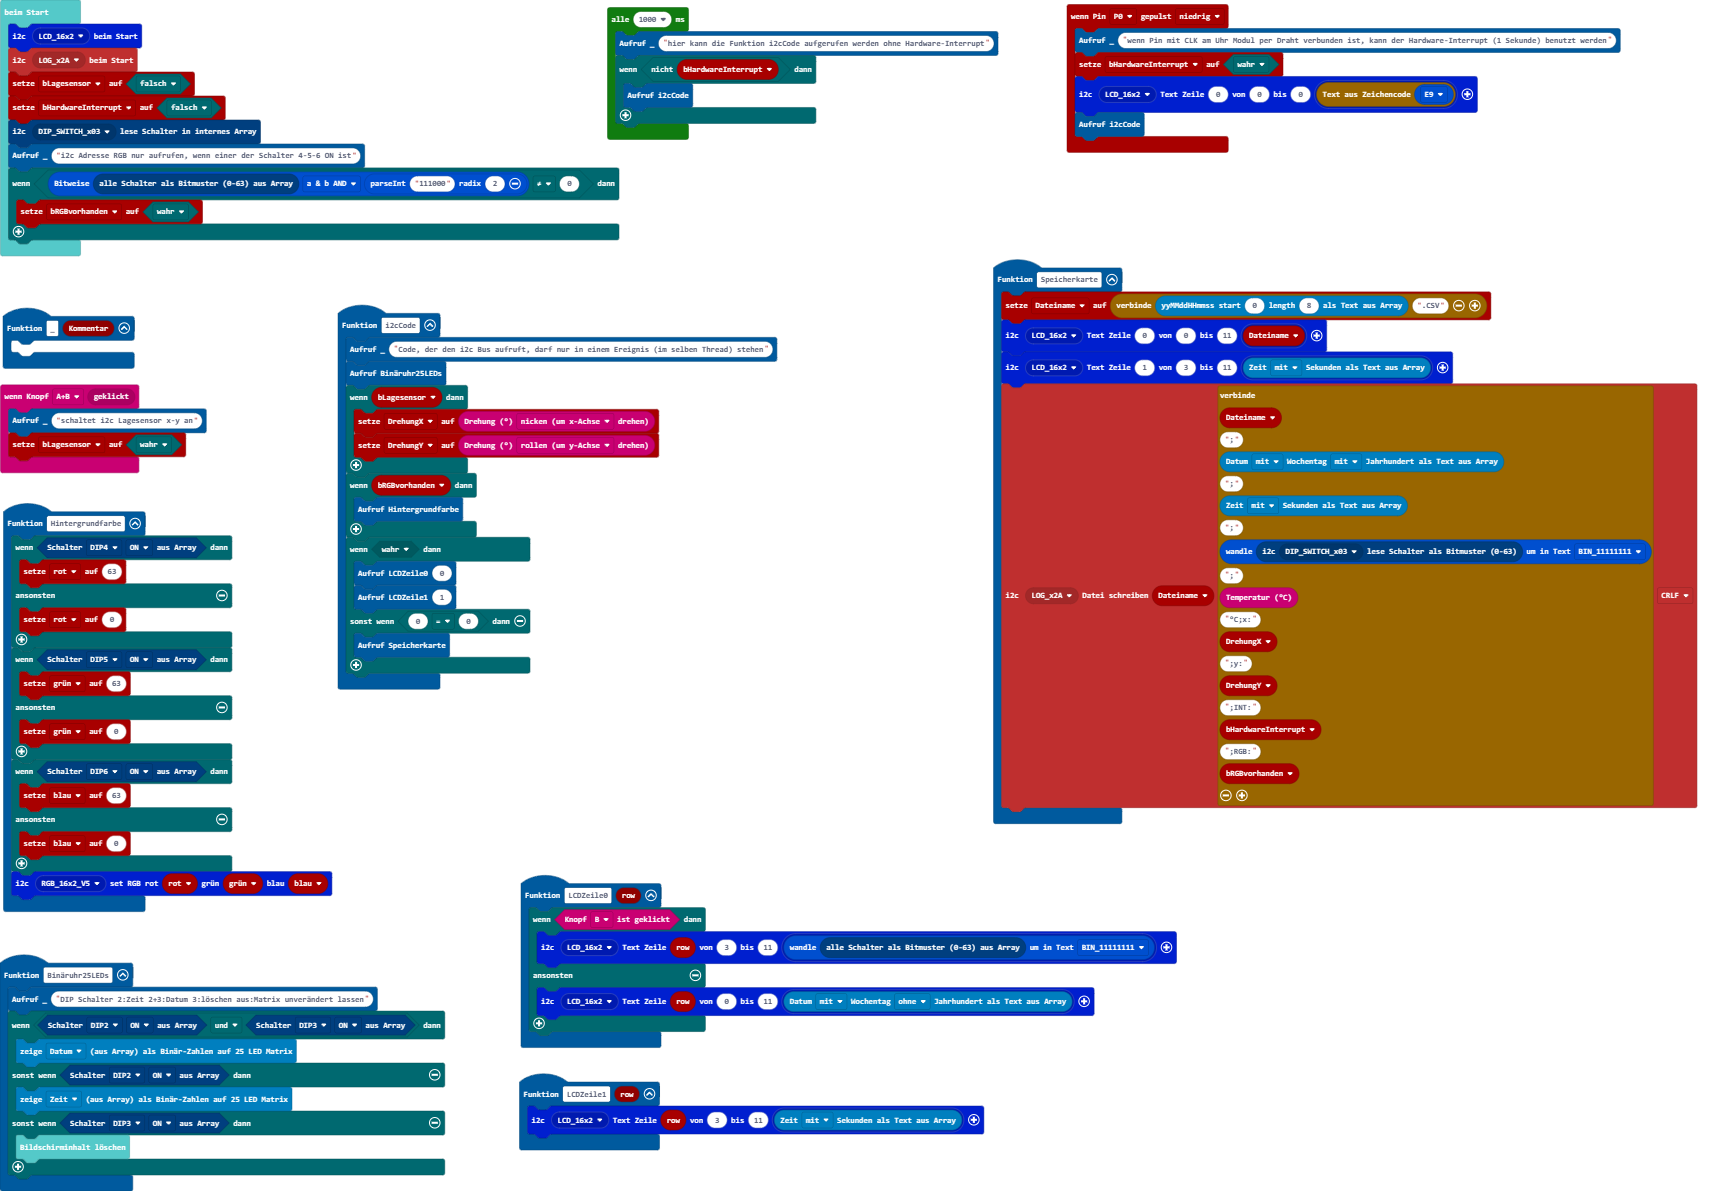
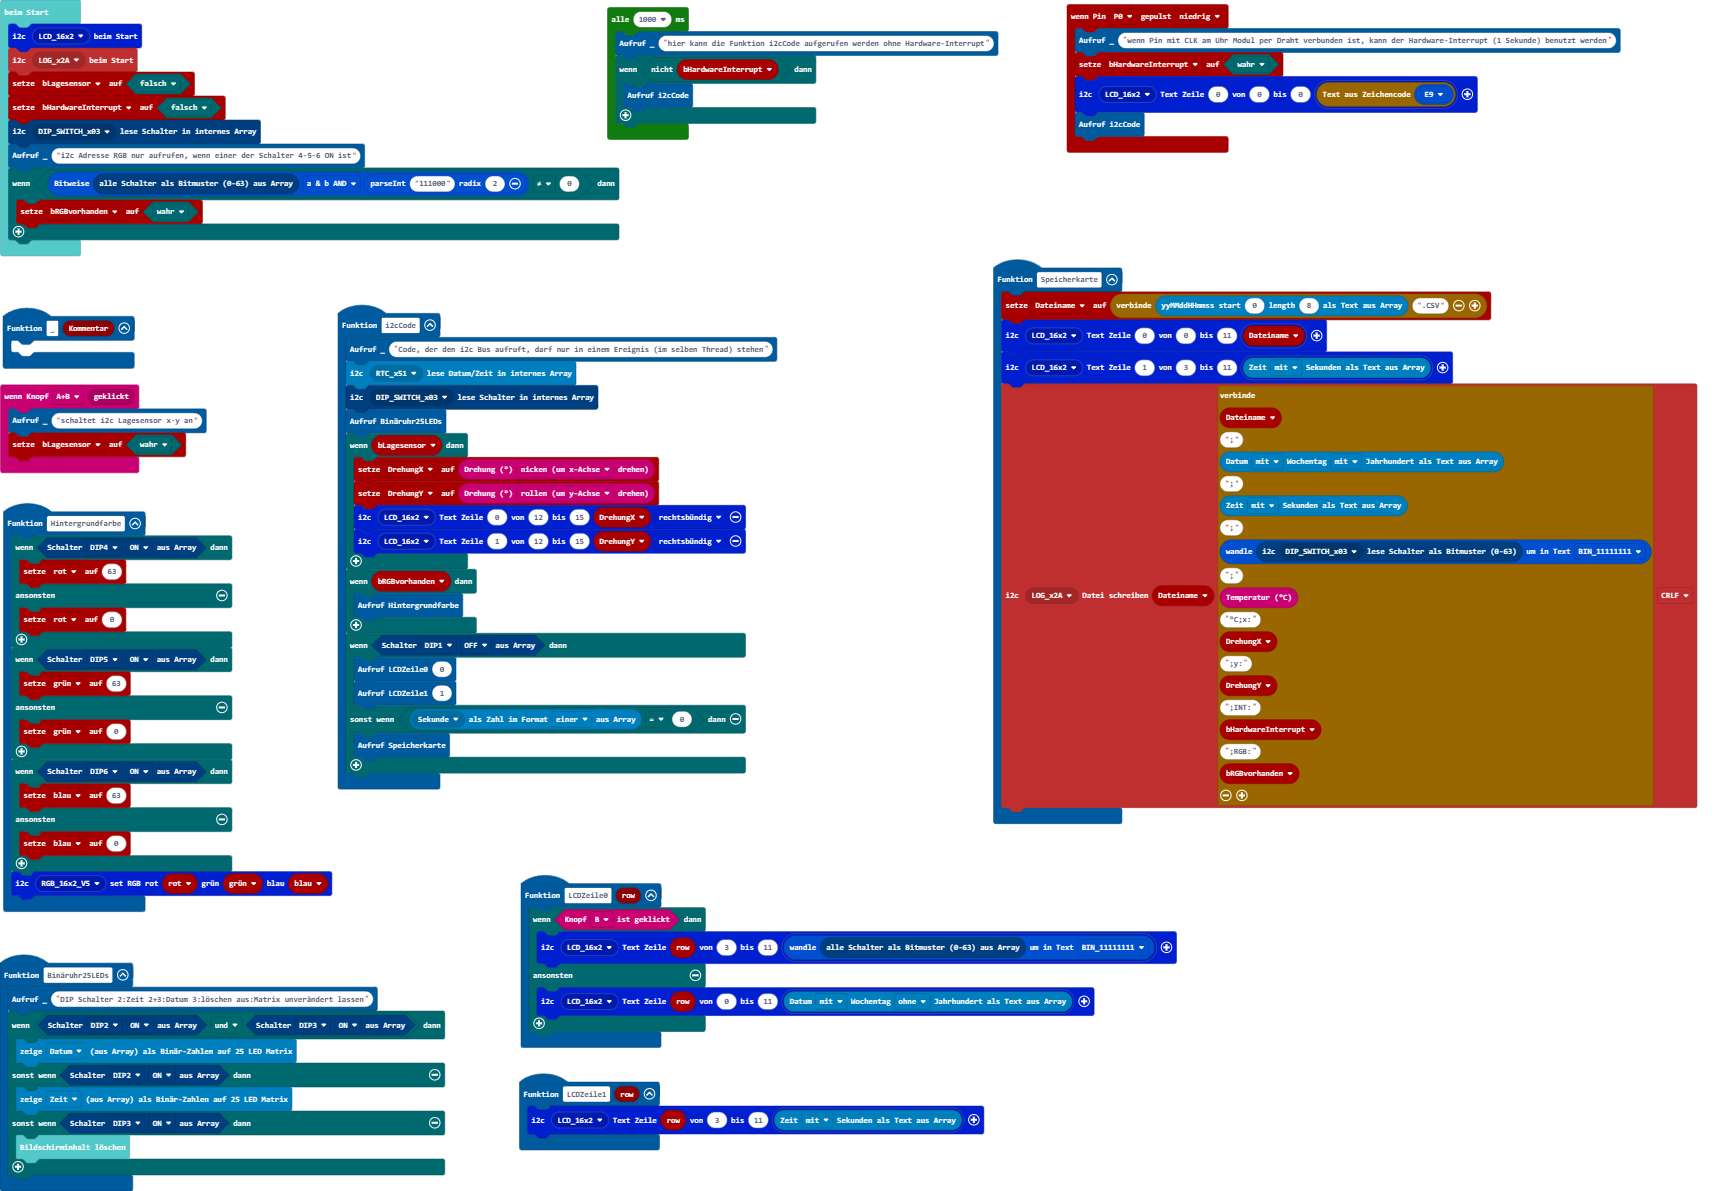
Aktualisiere main.blocks, main.ts

Changed region(s): [[0.1846, 0.2796, 0.4306, 0.6835]]

diff --git a/main.ts b/main.ts
@@ -57,18 +57,22 @@ pins.onPulsed(DigitalPin.P0, PulseValue.Low, function () {
 })
 function i2cCode () {
     _("Code, der den i2c Bus aufruft, darf nur in einem Ereignis (im selben Thread) stehen")
+    rtcpcf85063tp.readDateTime(rtcpcf85063tp.rtcpcf85063tp_eADDR(rtcpcf85063tp.eADDR.RTC_x51))
+    dipswitch.readSwitch(dipswitch.dipswitch_eADDR(dipswitch.eADDR.DIP_SWITCH_x03))
     Binäruhr25LEDs()
     if (bLagesensor) {
         DrehungX = input.rotation(Rotation.Pitch)
         DrehungY = input.rotation(Rotation.Roll)
+        lcd16x2rgb.writeText(lcd16x2rgb.lcd16x2_eADDR(lcd16x2rgb.eADDR_LCD.LCD_16x2), 0, 12, 15, DrehungX, lcd16x2rgb.eAlign.right)
+        lcd16x2rgb.writeText(lcd16x2rgb.lcd16x2_eADDR(lcd16x2rgb.eADDR_LCD.LCD_16x2), 1, 12, 15, DrehungY, lcd16x2rgb.eAlign.right)
     }
     if (bRGBvorhanden) {
         Hintergrundfarbe()
     }
-    if (true) {
+    if (dipswitch.getON(dipswitch.eSwitch.DIP1, dipswitch.eONOFF.OFF)) {
         LCDZeile0(0)
         LCDZeile1(1)
-    } else if (0 == 0) {
+    } else if (rtcpcf85063tp.getByte(rtcpcf85063tp.rtcpcf85063tp_eRegister(rtcpcf85063tp.eRegister.Sekunde), rtcpcf85063tp.eFormat.einer) == 0) {
         Speicherkarte()
     }
 }
